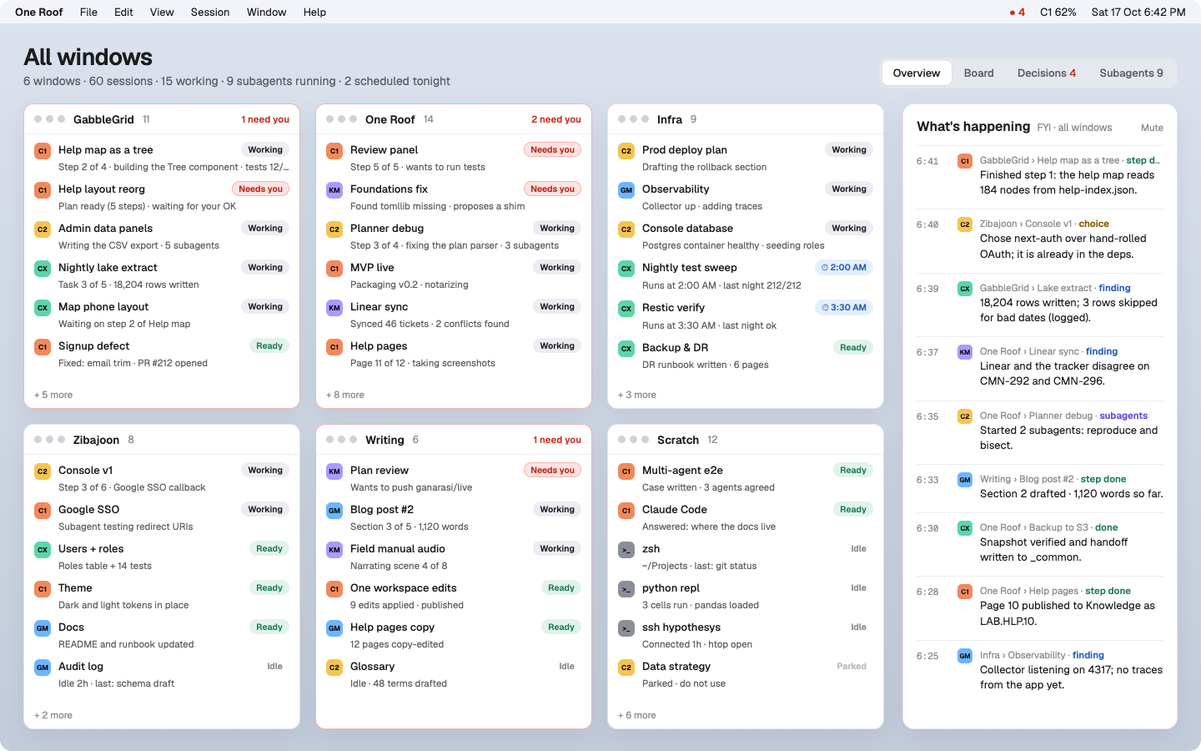
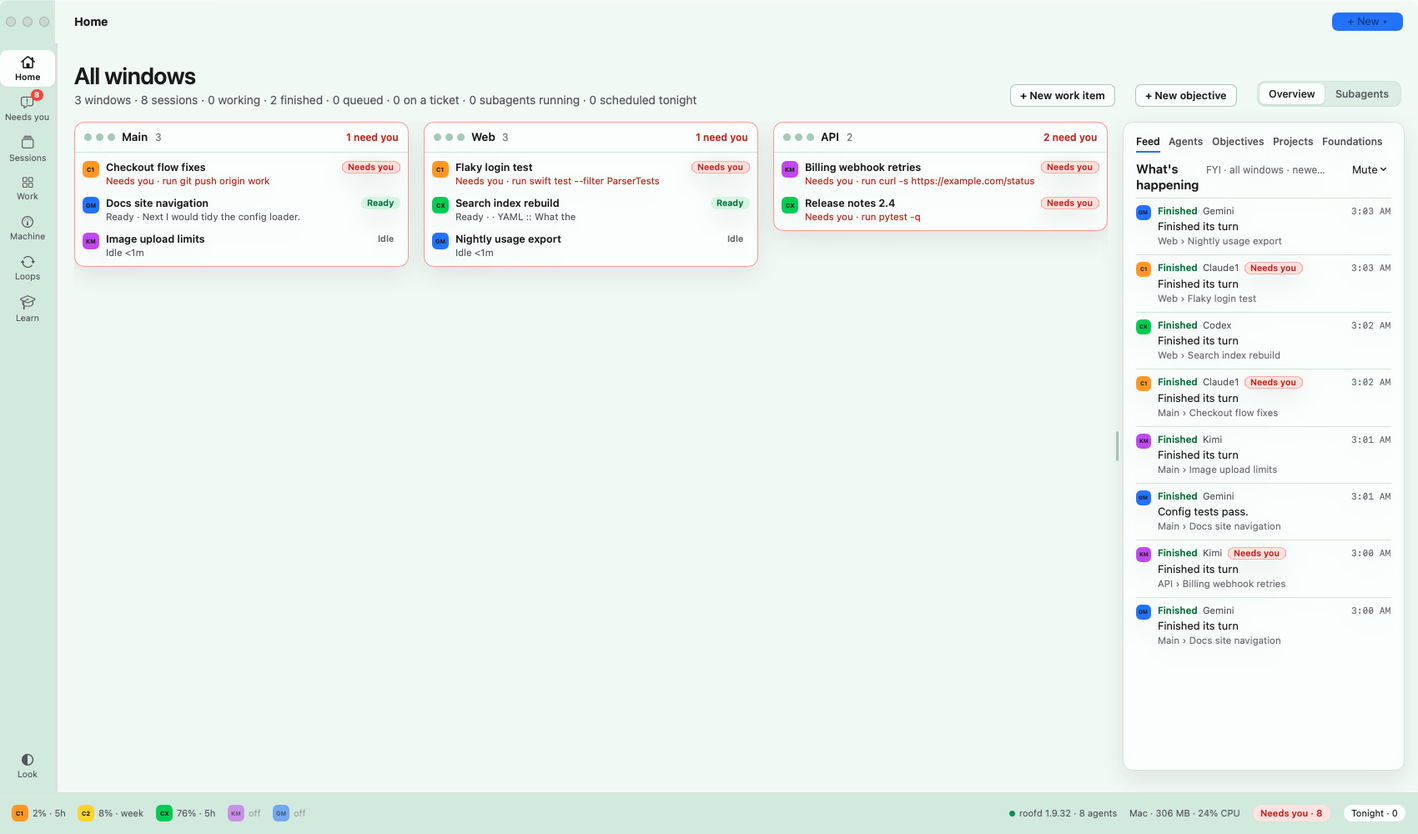
LAB-1924 · [lab-public-presence] [lab-public-presence] README, Pages and help for 1.9.33 (OpenCode + Goose, new Needs you, fresh screenshots); LAB-1897 frame log only on control-click resizes

Changed region(s): [[0.0, 0.0622, 1.0, 1.0], [0.0, 0.0, 0.2812, 0.0311], [0.8438, 0.0, 1.0, 0.0622]]

diff --git a/site/index.html b/site/index.html
@@ -59,7 +59,7 @@
     <section id="top" class="hero">
       <span class="status anim" style="--d:.05s"><i data-launch-dot></i><span data-launch-text="statusText">v1.9.32 is out · free and open source</span></span>
       <h1 class="anim h1-lines" style="--d:.12s">1× is you.<br>10× is your agent.<br><span class="accent">100× is all of them at once.</span></h1>
-      <p class="lede anim" style="--d:.2s">AI already took most engineers from 1× to 10×. The next 10× won't come from a smarter model, or from agents left on autopilot. It comes from running many agents at once with you still steering, deciding and checking. One Roof is the app built for that: every Claude Code, Codex, Kimi, Gemini and Antigravity session in one place, each saying in plain words what it's doing and what it needs from you.</p>
+      <p class="lede anim" style="--d:.2s">AI already took most engineers from 1× to 10×. The next 10× won't come from a smarter model, or from agents left on autopilot. It comes from running many agents at once with you still steering, deciding and checking. One Roof is the app built for that: every Claude Code, Codex, Kimi, Gemini, Antigravity, OpenCode and Goose session in one place, each saying in plain words what it's doing and what it needs from you.</p>
       <div class="ctas anim" style="--d:.28s">
         <a class="btn-lg btn-accent" href="https://github.com/gaurav8936/oneroof/releases/latest/download/One-Roof-1.9.32.zip" data-launch-href="primary"><span data-launch-text="heroCta">Download for Mac</span><span class="note" data-launch-text="heroCtaNote">v1.9.32 · .zip</span></a>
         <a class="btn-lg btn-outline" href="https://github.com/gaurav8936/oneroof" data-launch-href="secondary" data-launch-text="secondaryCta">View on GitHub</a>
@@ -72,7 +72,7 @@
 
     <section class="hero-shot">
       <div class="shot shot-hero">
-        <img data-shot="overview" src="shots/overview-daylight.png" width="1440" height="900" alt="One Roof Overview: six windows of sessions with a live feed">
+        <img data-shot="overview" src="shots/overview-daylight.png" width="1700" height="1000" alt="One Roof Home: three windows of sessions from five agents, what each needs, and a live feed">
       </div>
     </section>
 
@@ -84,8 +84,10 @@
         <span class="chip"><i style="background:#bf5af2"></i>Kimi</span>
         <span class="chip"><i style="background:#0a84ff"></i>Gemini</span>
         <span class="chip"><i style="background:#ff375f"></i>Antigravity</span>
+        <span class="chip"><i style="background:#14b8a6"></i>OpenCode</span>
+        <span class="chip"><i style="background:#c8962b"></i>Goose</span>
       </div>
-      <p><b>Every subscription you pay for, working at once.</b> Up to two Claude accounts and one of each other agent, found automatically. Claude and Codex show live usage, and new work goes to the seat with room.</p>
+      <p><b>Every subscription you pay for, working at once.</b> Up to two Claude accounts and one of each other agent, found automatically. Claude and Codex show live usage, and new work goes to the seat with room. OpenCode and Goose are open source and run a hosted model on your own API key, with a spending cap per session.</p>
     </section>
 
     <section id="why" class="block">
@@ -138,7 +140,7 @@
           <span class="num">03</span>
           <h3>Approvals block everything</h3>
           <p>Questions pile up in tabs you aren't looking at, and come with no reason.</p>
-          <span class="answer">→ One queue for every decision, with the reason, the risk and what happens if you say no.</span>
+          <span class="answer">→ One queue for everything waiting on you: the reason, the risk and every option the agent offers, plus finished turns waiting for your next message.</span>
         </a>
         <a class="card" href="#route">
           <span class="num">04</span>
@@ -169,7 +171,7 @@
       <div class="stack prose">
         <p>In chat, few people are loyal to one model any more: one for writing, another for reasoning, a third because it's quick or cheap. Coding agents are still treated as monolithic. You pick Claude Code, or Codex, and you stay.</p>
         <p>That won't last. Agents differ in what they're good at, which model family they bring and how much room is left on each subscription. The next step is using the right one for each task: plan, build, review, research, chores, and the loops that run every night.</p>
-        <p>Each vendor's own app is built to keep you inside that vendor's agent. One Roof isn't any vendor's. Claude Code, Codex, Kimi, Gemini and Antigravity run side by side, and your rules decide who takes what.</p>
+        <p>Each vendor's own app is built to keep you inside that vendor's agent. One Roof isn't any vendor's. Claude Code, Codex, Kimi, Gemini and Antigravity run side by side, with the open-source OpenCode and Goose on whichever hosted model you choose, and your rules decide who takes what.</p>
         <p class="strong">A neutral home for agentic engineering: agentic code today, agentic everything next.</p>
       </div>
     </section>
@@ -236,10 +238,10 @@
 
     <section id="decisions" class="feature">
       <div class="feature-head">
-        <div class="stack-sm"><span class="tag"><i style="background:var(--c4)"></i>Decisions · ⌘I</span><h3>The calls that need you, with the reason in front of you.</h3></div>
-        <p>Every agent waiting on you, oldest first. Each request shows why the agent wants to do it, in its own words, plus what it touches, the risk, what happens if you say no, and where it sits in the plan. Allow once, always allow, deny, or reply with instructions. You stay in the loop; nothing is approved for you.</p>
+        <div class="stack-sm"><span class="tag"><i style="background:var(--c4)"></i>Needs you · ⌘I</span><h3>Everything that needs you, with the reason in front of you.</h3></div>
+        <p>Every agent waiting on you, oldest first. Each request shows why the agent wants to do it, in its own words, plus what it touches, the risk, what happens if you say no, and every option its own prompt offers, one button each. A question shows as the agent drew it, with its own answers. A turn that finished waits here too, with what the agent said last and a reply box. Nothing is approved for you, and nothing covers the terminal: you can always answer there instead.</p>
       </div>
-      <div class="shot"><img data-shot="decisions" src="shots/decisions-daylight.png" width="1440" height="900" loading="lazy" alt="Decisions"></div>
+      <div class="shot"><img data-shot="decisions" src="shots/decisions-daylight.png" width="1700" height="1000" loading="lazy" alt="Needs you: an agent's request with its reason, risk and all of its own options"></div>
     </section>
 
     <section id="board" class="feature">
@@ -304,7 +306,7 @@
       </div>
       <div class="pair">
         <div class="shot"><img src="shots/work.png" width="1440" height="900" loading="lazy" alt="Work: projects, tickets by phase, and the router's pick"></div>
-        <div class="shot"><img src="shots/learn.png" width="1440" height="900" loading="lazy" alt="Learn: the narrated Agentic Engineering deck"></div>
+        <div class="shot"><img src="shots/learn.png" width="1700" height="1000" loading="lazy" alt="Learn: the narrated Agentic Engineering deck"></div>
       </div>
     </section>
 

diff --git a/app/Sources/OneRoof/MainWindowController.swift b/app/Sources/OneRoof/MainWindowController.swift
@@ -352,7 +352,10 @@ final class MainWindowController: NSWindowController, NSWindowDelegate, Observab
         let event = NSApp.currentEvent
         let click = Self.isControlClick(event, in: w)
         let undo = WindowZoom.undoUnasked(owner: owner, now: now, visible: w.screen?.visibleFrame, duringControlClick: click)
-        if now.size != owner.size { WindowFrameLog.write(window: win.name, from: owner, to: now, event: event, undone: undo) }
+        // LAB-1897: log only what LAB-1758 hunts (a size change during a click on our controls, or one undone). Logging
+        // every programmatic resize symbolicated a 16-frame stack and wrote a file on each step of a tile, a Zoom or
+        // the perf gesture.
+        if now.size != owner.size, click || undo { WindowFrameLog.write(window: win.name, from: owner, to: now, event: event, undone: undo) }
         guard undo else { ownerFrame = now; return }
         DispatchQueue.main.async { [weak w] in
             guard let w, w.frame != owner, !w.inLiveResize else { return }

diff --git a/app/scripts/sim/simulate.py b/app/scripts/sim/simulate.py
@@ -34,6 +34,10 @@ SCENARIOS = ["builder", "asker", "mixed"]
 # Who the simulated owner is per session: how soon they answer an ask (None = never: it stays in Needs you).
 PERSONAS = {"prompt": (4, 15), "slow": (40, 90), "away": None}
 
+# LAB-1924: --pretty names for public screenshots (made-up projects; no real repo or person).
+PRETTY = ["Checkout flow fixes", "Search index rebuild", "Billing webhook retries", "Docs site navigation",
+          "Flaky login test", "Release notes 2.4", "Image upload limits", "Nightly usage export", "Onboarding emails"]
+
 FOLLOW_UPS = [
     "Thanks. Now add a test for that.",
     "Looks good. What's left before we can ship?",
@@ -122,12 +126,12 @@ class Sim:
         n = 1 if self.a.real else self.a.sessions
         if self.a.real:
             self.a.turns = min(self.a.turns, 3)    # a proof run on the owner's subscription: a few turns
-        windows = ["Main", "Sim B", "Sim C"]
+        windows = ["Main", "Web", "API"] if self.a.pretty else ["Main", "Sim B", "Sim C"]
         personas = list(PERSONAS)
         for i in range(n):
             agent = "claude" if self.a.real else AGENTS[i % len(AGENTS)]
             scen = SCENARIOS[(i // len(AGENTS) + i) % len(SCENARIOS)]
-            name = f"sim-{i + 1:02d}-{agent}-{scen}"
+            name = PRETTY[i % len(PRETTY)] if self.a.pretty else f"sim-{i + 1:02d}-{agent}-{scen}"
             repo = os.path.join(root, name)
             os.makedirs(repo, exist_ok=True)
             subprocess.run(["git", "init", "-q", repo], check=False)
@@ -153,7 +157,7 @@ class Sim:
 
     def write_script(self):
         lines = ["# One Roof simulator (LAB-1591): sessions over 3 windows, then Needs you watched", "wait 4"]
-        for w in ["Main", "Sim B", "Sim C"]:
+        for w in (["Main", "Web", "API"] if self.a.pretty else ["Main", "Sim B", "Sim C"]):
             mine = [s for s in self.sessions if s["window"] == w]
             if not mine:
                 continue
@@ -174,6 +178,15 @@ class Sim:
                     lines += ["place sessions", "selectblocked", "wait 1", f"snap term-{k:04d}", "place needsYou", "wait 1"]
             lines += [f"wait {self.a.every}"]
             k += 1
+        if self.a.tour:   # LAB-1924: one capture of every place at the end, for the README and the site
+            first = self.sessions[0]["name"]
+            lines += ["activate Main", "place home", "wait 2", "snap tour-home",
+                      "place sessions", f"select {first}", "wait 2", "snap tour-sessions",
+                      "place needsYou", "wait 1", "snap tour-needs"]
+            lines += [x for i in range(4) for x in (f"needspick {i}", f"snap tour-needs-e{i}")]
+            lines += ["place work", "wait 2", "snap tour-work", "place machine", "wait 2", "snap tour-machine",
+                      "place loops", "wait 2", "snap tour-loops", "place learn", "wait 3", "snap tour-learn",
+                      "place sessions", "newsession", "wait 2", "snap tour-newsession"]
         lines += ["place sessions", "snap end-sessions", "quit"]
         self.script = os.path.join(self.run, "script.txt")
         with open(self.script, "w") as f:
@@ -333,7 +346,7 @@ class Sim:
         self.prepare()
         print(f"run folder: {self.run}\nroofd dir:  {self.roofd_dir}", flush=True)
         self.launch()
-        end = time.time() + self.a.minutes * 60 + 25
+        end = time.time() + self.a.minutes * 60 + 25 + (180 if self.a.tour else 0)   # the tour runs after the reads
         try:
             while time.time() < end and self.app.poll() is None:
                 self.poll()
@@ -465,6 +478,8 @@ def main():
     p.add_argument("--real", action="store_true", help="one real Claude session instead of stand-ins")
     p.add_argument("--model", default="haiku", help="--real: the Claude model (ANTHROPIC_MODEL)")
     p.add_argument("--out", help="run folder (default $TMPDIR/oneroof-sim-<time>)")
+    p.add_argument("--pretty", action="store_true", help="LAB-1924: realistic session and window names (screenshots)")
+    p.add_argument("--tour", action="store_true", help="LAB-1924: snap every place at the end of the run")
     p.add_argument("--each", action="store_true", help="LAB-1907: snap every open Needs you entry and a blocked terminal")
     p.add_argument("-v", "--verbose", action="store_true")
     a = p.parse_args()

diff --git a/README.md b/README.md
@@ -2,7 +2,7 @@
 
 <h3 align="center">1× is you.<br>10× is your agent.<br>100× is all of them at once.</h3>
 
-<p align="center">AI already took most engineers from 1× to 10×. The next 10× won't come from a smarter model, or from agents left on autopilot. It comes from running many agents at once with you still steering, deciding and checking. One Roof is the app built for that: every Claude Code, Codex, Kimi, Gemini and Antigravity session in one place, each saying in plain words what it's doing and what it needs from you.</p>
+<p align="center">AI already took most engineers from 1× to 10×. The next 10× won't come from a smarter model, or from agents left on autopilot. It comes from running many agents at once with you still steering, deciding and checking. One Roof is the app built for that: every Claude Code, Codex, Kimi, Gemini, Antigravity, OpenCode and Goose session in one place, each saying in plain words what it's doing and what it needs from you.</p>
 
 <p align="center">
   <a href="https://github.com/gaurav8936/oneroof/releases/latest"><b>⬇ Download for Mac (.zip)</b></a> ·
@@ -14,7 +14,6 @@
 
 <p align="center">
   <a href="https://github.com/gaurav8936/oneroof/releases/latest"><img alt="Release" src="https://img.shields.io/github/v/release/gaurav8936/oneroof?label=release"></a>
-  <a href="https://github.com/gaurav8936/oneroof/actions/workflows/test.yml"><img alt="Tests" src="https://github.com/gaurav8936/oneroof/actions/workflows/test.yml/badge.svg"></a>
   <img alt="macOS 14+" src="https://img.shields.io/badge/macOS-14%2B-black?logo=apple">
   <img alt="Apple silicon" src="https://img.shields.io/badge/Apple%20silicon-arm64-lightgrey">
   <a href="LICENSE"><img alt="MIT licence" src="https://img.shields.io/badge/licence-MIT-blue"></a>
@@ -22,11 +21,12 @@
 
 <p align="center"><sub>Open source · MIT · native macOS app · macOS 14 or later · one download, plus your agents</sub></p>
 
-<p align="center"><img src="site/shots/overview-daylight.png" alt="One Roof Overview: every window and session at once, grouped, with a live feed of what each agent did" width="960"></p>
+<p align="center"><img src="site/shots/overview-daylight.png" alt="One Roof Home: three windows of sessions from five agents, what each needs, and a live feed" width="960"></p>
 
-<p align="center"><b>The players:</b> Claude Code · Codex · Kimi · Gemini · Antigravity<br>
+<p align="center"><b>The players:</b> Claude Code · Codex · Kimi · Gemini · Antigravity · OpenCode · Goose<br>
 <sub>Up to two Claude accounts and one of each other agent, found automatically. Claude and Codex show live usage,
-and new work goes to the seat with room.</sub></p>
+and new work goes to the seat with room. OpenCode and Goose are open source and run a hosted model on your own API key,
+with a spending cap per session.</sub></p>
 
 ## Each jump changes what your job is.
 
@@ -58,7 +58,7 @@ Each one is fine at three sessions. Each one is what caps you at twenty.
 |---|---|
 | **You can't tell sessions apart.** Every tab has the same grey icon, so you type WIP: or NEXT: in front of the name. | Every session labelled with its state, agent, account and a live one-line status. |
 | **Nobody reads the wall of text.** At 100×, reading every stream is the whole day. | A summary of what you asked, what it's doing now and how far along it is. |
-| **Approvals block everything.** Questions pile up in tabs you aren't looking at, and come with no reason. | One queue for every decision, with the reason, the risk and what happens if you say no. |
+| **Approvals block everything.** Questions pile up in tabs you aren't looking at, and come with no reason. | One queue for everything waiting on you: each prompt with its reason, its risk and every option the agent offers, plus the turns that finished and wait for your next message. |
 | **Subscriptions run out mid-task.** More agents means more limits, and you find out when one stops. | Remaining usage on each seat steers new work; a step hands off before a limit hits. |
 | **Agents drift apart.** More sessions, more ways to start one in the wrong folder with the wrong memory. | One launch folder, one memory and one rulebook, checked every time the app starts. |
 | **Work lives in three places.** The tracker, Linear and your tabs never agree. | Board, Work and tickets inside the app. Every session knows its ticket. |
@@ -69,7 +69,7 @@ In chat, few people are loyal to one model any more: one for writing, another fo
 
 That won't last. Agents differ in what they're good at, which model family they bring and how much room is left on each subscription. The next step is using the right one for each task: plan, build, review, research, chores, and the loops that run every night.
 
-Each vendor's own app is built to keep you inside that vendor's agent. One Roof isn't any vendor's. Claude Code, Codex, Kimi, Gemini and Antigravity run side by side, and your rules decide who takes what.
+Each vendor's own app is built to keep you inside that vendor's agent. One Roof isn't any vendor's. Claude Code, Codex, Kimi, Gemini and Antigravity run side by side, with the open-source OpenCode and Goose on whichever hosted model you choose, and your rules decide who takes what.
 
 **A neutral home for agentic engineering: agentic code today, agentic everything next.**
 
@@ -94,11 +94,19 @@ step stays a real terminal. Subagents sit beside it with their own captions.
 
 <img src="site/shots/session-daylight.png" alt="A session: what you asked, steps, chapters and subagents" width="960">
 
-### The calls that need you, with the reason in front of you. <sub>Decisions · ⌘I</sub>
+### Everything that needs you, with the reason in front of you. <sub>Needs you · ⌘I</sub>
 Every agent waiting on you, oldest first: why it wants to do it, what it touches, the risk, what happens if you say
-no. Allow once, always allow, deny, or reply with instructions. Nothing is approved for you.
+no, and every option its own prompt offers, in its words, one button each. A question shows as the agent drew it,
+with its own answers. A turn that finished waits here too, with what the agent said last and a reply box, so you can
+keep it going without opening the terminal. Nothing is approved for you, and nothing covers the terminal: you can
+always answer there instead.
 
-<img src="site/shots/decisions-daylight.png" alt="Decisions: an agent's request with its reason, what it touches and the risk" width="960">
+<img src="site/shots/decisions-daylight.png" alt="Needs you: Kimi asks to use the network, with its reason, risk and all four of its own options; finished turns wait in the list" width="960">
+
+### Open-source agents, on your own API key. <sub>OpenCode · Goose</sub>
+OpenCode and Goose run beside the others in the same terminals, Needs you and handoffs. Pick a hosted model (tested
+with Together's GLM-5.3-Flash; OpenRouter and Fireworks connect too), point One Roof at your key file, and set a cap
+per session and in total: a session stops before it spends past it. Your key never goes into a prompt, a log or the repo.
 
 ### Plan your day by dragging cards. <sub>Board · ⌘B</sub>
 Planned, Next, Working, Needs you, Ready, Tonight: every session across every window on one board. Drag a card to
@@ -152,7 +160,7 @@ optional hooks, all packaged from the deck's own repository at build time. Liste
 | **The kit (`roof`)** | `bin/ guard/ shell/ lib/ templates/ tools/` | One launch folder, one memory, one rulebook for every agent, plus `roof swarm` for parallel agents in git worktrees. Works with or without the app |
 | **Website** | [`site/`](site/) | The launch page, published at [gaurav8936.github.io/oneroof](https://gaurav8936.github.io/oneroof/) |
 
-> **Early release (1.9.32).** Used daily on one Mac and tested on Apple-silicon Macs only. Expect rough edges,
+> **Early release (1.9.33).** Used daily on one Mac and tested on Apple-silicon Macs only. Expect rough edges,
 > especially in first-run setup and agent detection on machines unlike ours. Please
 > [open an issue](https://github.com/gaurav8936/oneroof/issues) with what you find; see [CONTRIBUTING.md](CONTRIBUTING.md).
 > Known limits: Apple silicon only; the optional on-device model needs `brew install llama.cpp` (the model itself is one click: **Get the model**).
@@ -165,7 +173,8 @@ optional hooks, all packaged from the deck's own repository at build time. Liste
 |---|---|---|
 | Required | A Mac with Apple silicon, macOS 14 or later | |
 | Required | git | `xcode-select --install` (Xcode Command Line Tools) |
-| Required | At least one agent CLI, installed and signed in: `claude`, `codex`, `kimi`, `gemini` or `agy` | each agent's own installer |
+| Required | At least one agent CLI, installed and signed in: `claude`, `codex`, `kimi`, `gemini` or `agy` | each agent's own installer (Gemini CLI needs a Gemini API key: Google no longer signs personal accounts in to it; Antigravity does) |
+| Optional | OpenCode or Goose | the pinned `opencode` 1.19.5 / `goose` 1.57.0, Python 3.12 with PyYAML, and an API key file for Together, OpenRouter or Fireworks (see [hosted agents](docs/help/hosted-agents.md)) |
 | Optional | On-device task classifier and captions | `brew install llama.cpp`, then **Get the model** in Settings › Foundations (Qwen3 1.7B, Apache-2.0, 1.1 GB) |
 | Optional | Work view (projects and tickets) | a Linear API key, entered at setup or in Settings |
 | Optional | Seat gauges for Claude | a Claude Code status line that writes usage files (see the help page on seats) |
@@ -284,7 +293,7 @@ covers adding another agent, including Hermes, which keeps its own memory.
 bash tests/run.sh      # 59 checks in a throwaway HOME with fake agents: no real settings, shells or tokens touched
 ```
 
-CI runs them on Ubuntu and macOS.
+CI (Woodpecker) runs them on Linux and macOS.
 
 ## Licence
 

diff --git a/docs/help/05_launchpad-board-palette-and-shortcuts.md b/docs/help/05_launchpad-board-palette-and-shortcuts.md
@@ -25,9 +25,17 @@ One page that answers "what needs me, and what is going on?" across every window
 
 A Kanban of every session in every window, left to right: **Planned · Next → Working → Needs you → Ready → Idle · Parked → Tonight → Exited → Do not use**. Drag a card onto Planned · Next, Tonight or Do not use to change it; the other columns follow the agents' live state. The Tonight column has **Schedule** with a time and an **Every night** switch. Exited and Do not use can be collapsed. Double-click a card to open that session. **By project** groups the cards by their Linear project. ⌘B again closes the Board.
 
-## Decisions (⌘I)
+## Needs you (⌘I)
 
-Every agent that is waiting on you, in one list: its question in its own words, what the command would touch, the risk and what happens if you say no. **Allow once** (Return), **Always allow** (for that command in that repo), **Deny** (Esc) and a typed reply send the agent's own keys, exactly as if you had typed them in its terminal. Plans waiting for your approval are listed here too. The toolbar shows how many decisions are open.
+Everything waiting on you, in one list, oldest first:
+
+- **A permission prompt**: the agent's reason in its own words, what the command would touch, the risk and what happens if you say no, then **one button per option the prompt shows**, in its order and words (Antigravity's four, Codex's three, …). Each presses that option's own key, exactly as if you had typed it in the terminal; the first is Return. An option that takes your words ("No, and tell Claude what to do differently") sends what is in the reply box. When the options cannot be read, **Allow once**, **Always allow** and **Deny** stand in. Picking an "always" option is remembered as a rule for that command in that repo.
+- **A question menu** (Claude's question tool, Gemini's sign-in menu): the question as the agent drew it and its own answers, with no risk badge; Esc cancels. If Gemini says Google refuses the sign-in, the card says so and points to an API key or Antigravity.
+- **A question at the end of a turn**: what it asked, and a reply box.
+- **A finished turn** (*Finished · waiting for you*): what the agent said last, a reply box (its next message), **Set aside** (leaves the list; the session stays open) and **Close session**. It leaves when you reply here or in the terminal.
+- **Plans** waiting for your approval.
+
+Nothing covers the terminal: you can always answer an agent in its own terminal instead, and the entry leaves Needs you. OpenCode's allow options can only be picked in its terminal; its Reject works here. The toolbar and the Dock show how many are waiting.
 
 ## Subagents (⇧⌘A)
 
@@ -133,5 +141,5 @@ Without a shortcut, in the menus: Run Startup Check (One Roof menu); Ask Agent A
 | Command palette | ↑ ↓, Return | Move, run |
 | Review comment box | ⌘↩ | Send the comment to the agent |
 | Review panel | ⌘↩ / ⌥⌘D | Commit / side-by-side diff on or off |
-| Decisions | Return / Esc / ⌘] ⌘[ | Allow once / Deny / next or previous decision |
+| Needs you | Return / Esc / ⌘] ⌘[ | The first option (or Allow once) / Deny or cancel / next or previous entry |
 | Terminal | ⌘-click a link | Files open in the viewer, web links in the browser |

diff --git a/CHANGELOG.md b/CHANGELOG.md
@@ -1,5 +1,30 @@
 # Changelog
 
+## 1.9.33 — Needs you shows every option; nothing covers the terminal; finished turns wait for you; OpenCode and Goose ready to use (31 Oct 2026)
+
+- **Nothing covers the terminal any more** (LAB-1907). The approval card that sat over an agent's prompt hid the
+  agent's own options. Every agent shows its choices on screen and takes a click or a key there, so the card is gone
+  from the terminal (hidden, not deleted: it can come back if it is wanted). A quiet "Needs you" line stays in the
+  pane's header.
+- **Needs you shows every option the prompt shows** (LAB-1839). Not only Allow once / Always allow / Deny: one button
+  per option, in the prompt's order and words (Antigravity's four, Kimi's four, Codex's three, Goose's four), each
+  pressing that option's own key. An option that takes your words ("No, and tell Claude what to do differently")
+  sends what is in the reply box. "Always" options are still remembered as rules.
+- **A question offers its own answers** (LAB-1607). Claude's question menus show as the agent drew them, with their
+  own choices and "Your own answer", no risk badge and no Allow / Deny. Esc cancels, for every agent.
+- **Gemini's sign-in menu, in plain words** (LAB-1825). It is read as a menu (Sign in with Google · Use Gemini API
+  Key · Vertex AI), and when the screen says Google no longer supports the sign-in, Needs you says so and points to
+  an API key or Antigravity, instead of a High-risk Allow once that brought the same menu back.
+- **A finished turn waits in Needs you** (LAB-1827). When an agent finishes and it is your turn, Needs you shows what
+  it said last, a box for your next message, **Set aside** (leaves the list, keeps the session) and **Close
+  session**. It leaves when you reply here or in the terminal. Works for Goose and OpenCode too, read off their
+  screens.
+- **OpenCode and Goose, set up and checked end to end** (LAB-1803). Both replied and kept their context on a real
+  Together GLM-5.3-Flash session in this release; their prompts show in Needs you with all their options; Goose's
+  Deny and OpenCode's Reject work from there. The kit's OpenCode learn and Goose corpus checks pass (LAB-1790,
+  LAB-1792).
+- The menu bar's Needs you list shows **Allow** only for permission prompts; a finished turn or a menu opens instead.
+
 ## 1.9.32 — hosted coding with OpenCode and Goose; the rail stretches (30 Oct 2026)
 
 - **Hosted coding: OpenCode and Goose** (LAB-1799, LAB-1803). Two new agents that run here while the model runs at a

diff --git a/docs/help/01_sessions.md b/docs/help/01_sessions.md
@@ -14,9 +14,9 @@ You should be able to look at the left panel and know, without clicking, which a
 
 | State | Where it comes from | What it means for you |
 |---|---|---|
-| Needs you | roofd (a prompt is waiting) | Stopped on a question or a permission prompt; it waits for you. Answer in its terminal, on the card over the bottom of its terminal (**Allow once**, **Always allow**, **Deny**, **Reply…**; hover a button to see what it does), or in Decisions (⌘I). Counted on the Dock badge. |
+| Needs you | roofd (a prompt is waiting) | Stopped on a question or a permission prompt; it waits for you. Answer in its terminal (its own options, by click or key) or in Needs you (⌘I), which lists every option the prompt shows. No card covers the terminal (since 1.9.33). Counted on the Dock badge. |
 | Working | roofd | Busy right now: thinking, running a tool or writing. Goes back to Ready or Idle a few seconds after it stops. |
-| Ready | roofd | Finished a turn you have not looked at yet. Turns Idle as soon as you open the session or type in it. There is no timer. |
+| Ready | roofd | Finished a turn you have not looked at yet. Turns Idle as soon as you open the session or type in it. There is no timer. The finished turn also waits in Needs you (with what it said last and a reply box) until you reply, set it aside or close the session. |
 | Idle | roofd | Alive at its prompt with nothing new for you; not executing. Plain terminals are always Idle (they have no agent). |
 | Next | One Roof | Planned and up next (When › Next, Mark as Next, or the Next sticker). |
 | Planned | One Roof | Written ahead of time, not started. |

diff --git a/docs/help/hosted-agents.md b/docs/help/hosted-agents.md
@@ -15,7 +15,7 @@ OpenCode and Goose run the coding session on your Mac. Together AI, OpenRouter o
 
 Open New session, choose OpenCode or Goose, the saved connection and a specific repository. Enter the opening message and launch. First launch prepares private native settings and verifies the pinned executable, guard and remaining budget. Provider authentication is checked when the first request is made.
 
-Answer native permissions in the terminal. Goose's verified approval menu also works in Decisions. OpenCode approvals stay in its terminal because the selected option is shown by color; Deny safely sends Escape. Unknown menus stay manual. The normal composer sends follow-up messages into the same live conversation.
+Answer native permissions in the terminal or in Needs you. Goose's approval menu shows all four of its options there (Allow once, Always Allow, Deny, Cancel), each pressing its own key. OpenCode's allow options can only be picked in its terminal because its selection is shown by color; its Reject works from Needs you (it sends Escape). When either agent finishes a turn, it waits in Needs you with what it said last and a reply box. Unknown menus stay manual. The normal composer sends follow-up messages into the same live conversation.
 
 The session popover identifies provider/model and shows request/reservation metadata. Reopening a running session reattaches; it does not send the opening twice. Closing or relaunching ends the live native conversation; relaunch starts a new one with retained budget counters. Save a handoff before ending important work.
 

diff --git a/site/README.md b/site/README.md
@@ -1,7 +1,7 @@
 # site/ · the One Roof launch page
 
 The public page at https://gaurav8936.github.io/oneroof/. Plain HTML, CSS and one small script, no build step.
-`.github/workflows/pages.yml` publishes this folder to GitHub Pages on every push to `main` that touches `site/`.
+Woodpecker (`.woodpecker/pages.yaml`) publishes this folder to GitHub Pages on every push to `main` that touches `site/`.
 
 | File | What it is |
 |---|---|
